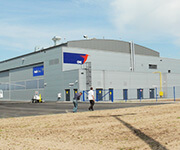
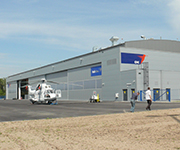
img updates

diff --git a/index.html b/index.html
@@ -650,7 +650,7 @@
 
 					    	<ul class="items-list d-flex flex-wrap row">
 					    		<li class="item d-flex flex-column flex-md-row col-lg-6">
-					    			<img class="item-img" src="img/portfolio/placeholder.jpg" alt="" />
+					    			<img class="item-img" src="img/portfolio/inne/lublinianka.jpg" alt="" />
 					    			<div class="text-block d-flex flex-column">
 						    			<h4 class="title">Hotel LUBLINIANKA - rekonstrukcja</h4>
 						    			<p class="paragraph">Lokalizacja:<span> Lublin</span></p>
@@ -685,7 +685,7 @@
 					    			</div>
 					    		</li>
 					    		<li class="item d-flex flex-column flex-md-row col-lg-6">
-					    			<img class="item-img" src="img/portfolio/placeholder.jpg" alt="" />
+					    			<img class="item-img" src="img/portfolio/inne/expo_XXI.jpg" alt="" />
 					    			<div class="text-block d-flex flex-column">
 						    			<h4 class="title">Hala wystawowa EXPO XXI</h4>
 						    			<p class="paragraph">Lokalizacja: <span>Warszawa</span></p>
@@ -701,7 +701,7 @@
 					    			</div>
 					    		</li>
 					    		<li class="item d-flex flex-column flex-md-row col-lg-6">
-					    			<img class="item-img" src="img/portfolio/inne/baza-strazy.jpg" alt="" />
+					    			<img class="item-img" src="img/portfolio/inne/modlin.jpg" alt="" />
 					    			<div class="text-block d-flex flex-column">
 						    			<h4 class="title">Baza Lotniskowej Straży Pożarnej</h4>
 						    			<p class="paragraph">Lokalizacja:<span> Warszawa-Modlin</span></p>

diff --git a/index-en.html b/index-en.html
@@ -702,7 +702,7 @@
 					    			</div>
 					    		</li>
 					    		<li class="item d-flex flex-column flex-md-row col-lg-6">
-					    			<img class="item-img" src="img/portfolio/inne/baza-strazy.jpg" alt="" />
+					    			<img class="item-img" src="img/portfolio/inne/modlin.jpg" alt="" />
 					    			<div class="text-block d-flex flex-column">
 						    			<h4 class="title">Airport Fire Station</h4>
 						    			<p class="paragraph">Location:<span> Warsaw-Modlin</span></p>
